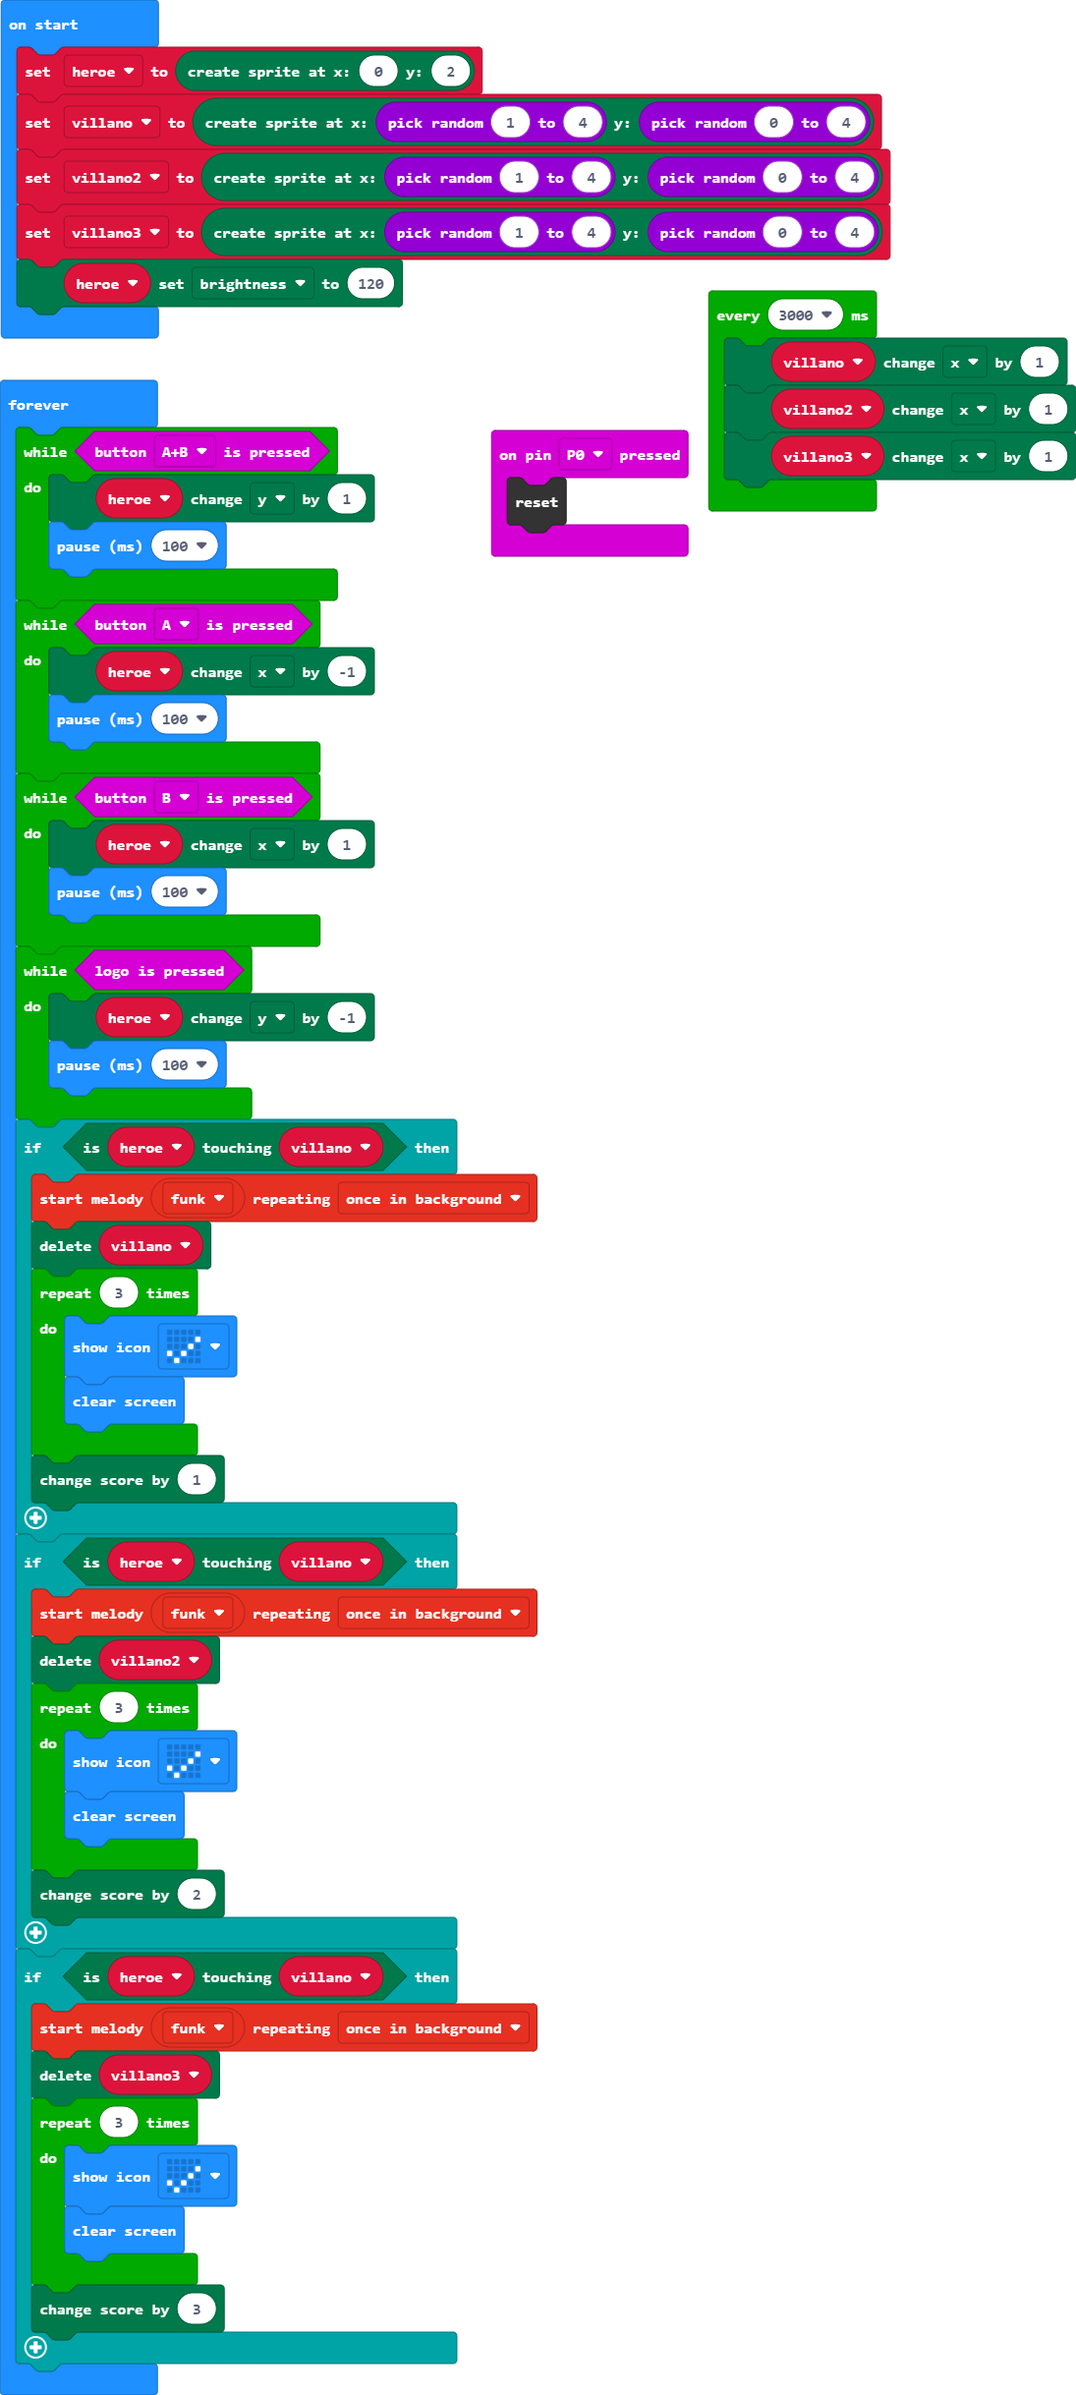
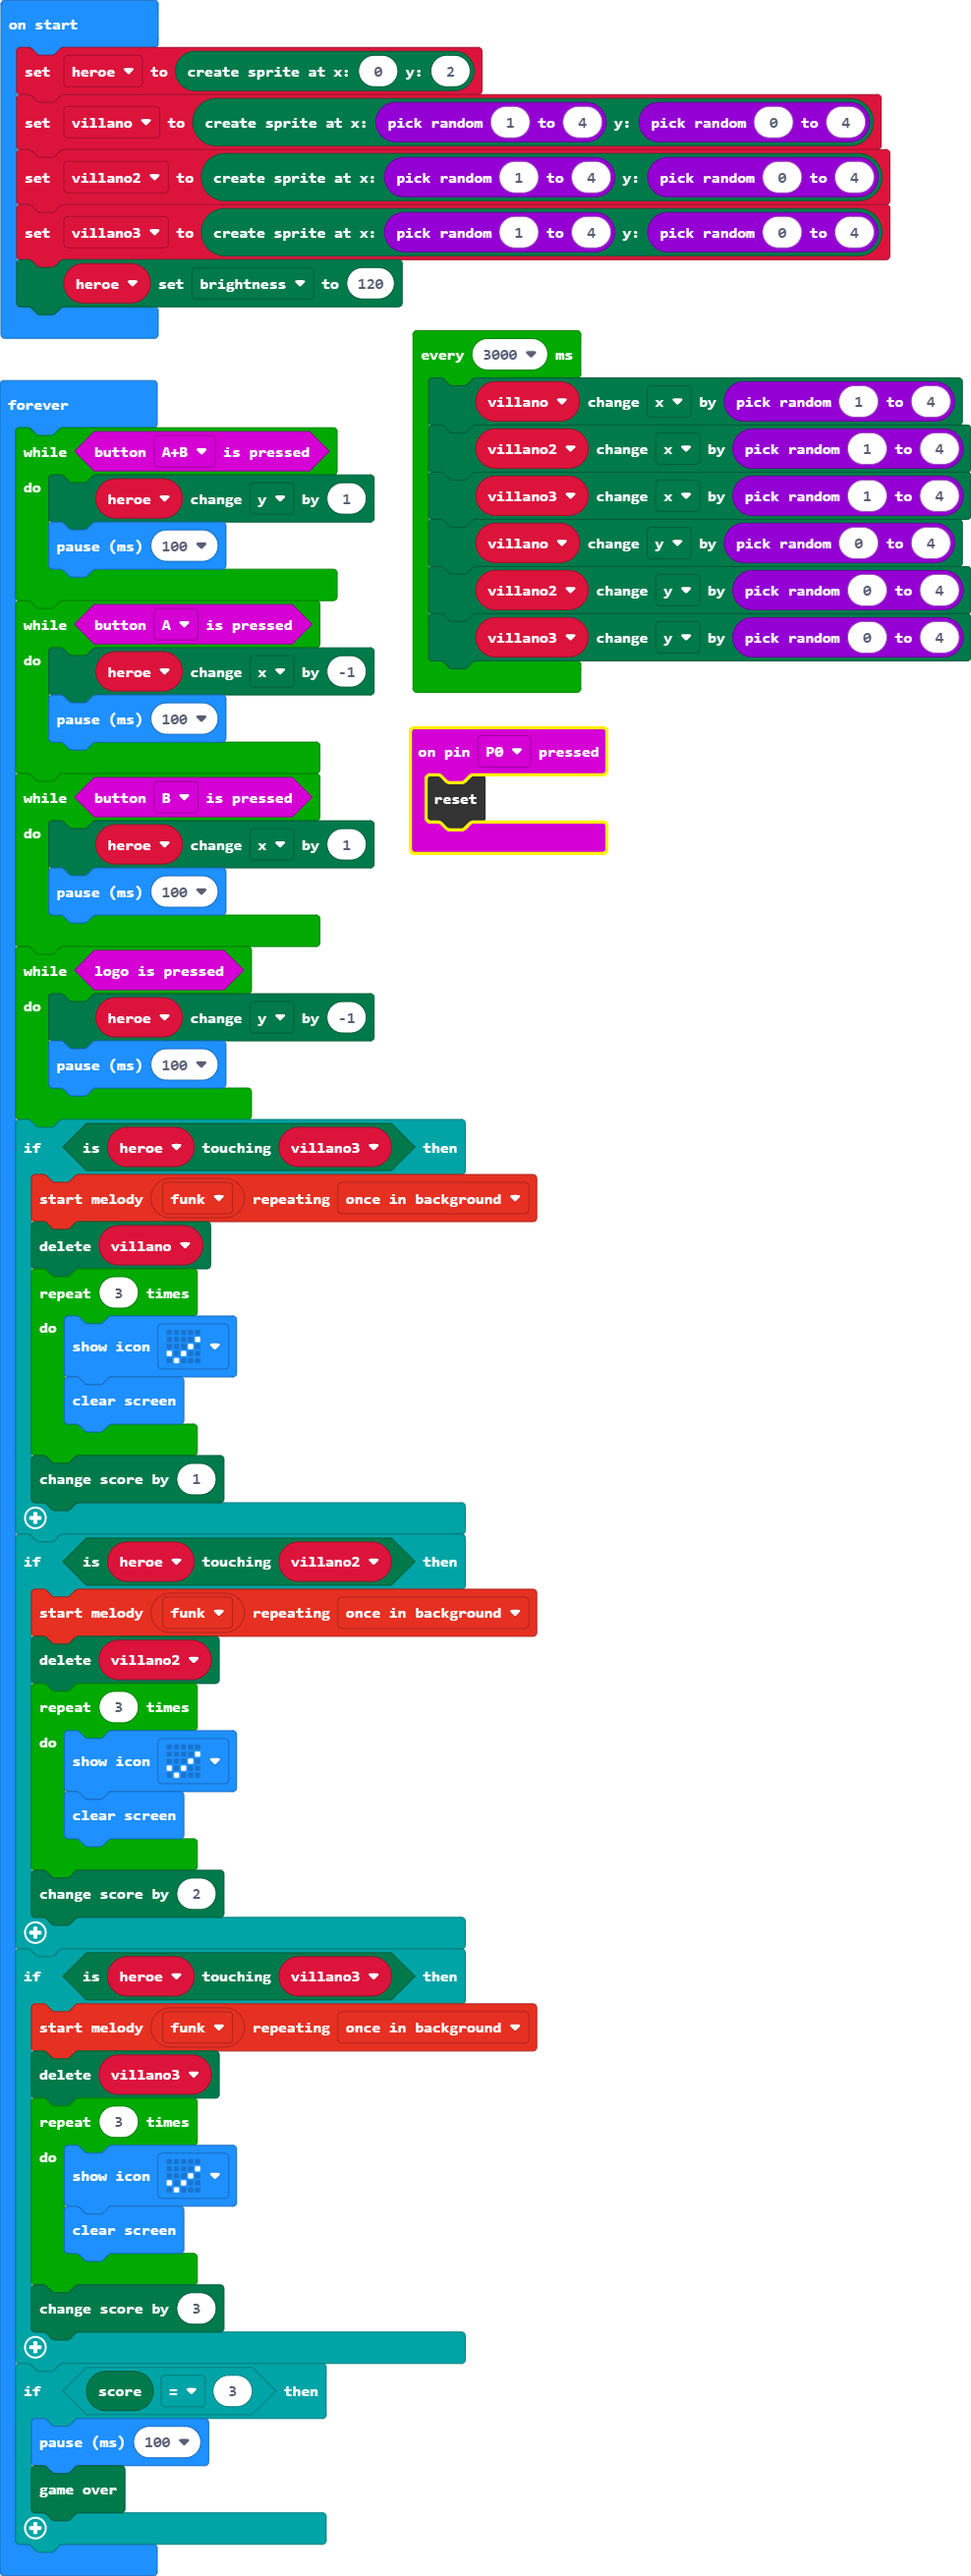
Update main.blocks, main.ts

diff --git a/main.ts b/main.ts
@@ -23,7 +23,7 @@ basic.forever(function () {
         heroe.change(LedSpriteProperty.Y, -1)
         basic.pause(100)
     }
-    if (heroe.isTouching(villano)) {
+    if (heroe.isTouching(villano3)) {
         music.startMelody(music.builtInMelody(Melodies.Funk), MelodyOptions.OnceInBackground)
         villano.delete()
         for (let index = 0; index < 3; index++) {
@@ -32,7 +32,7 @@ basic.forever(function () {
         }
         game.addScore(1)
     }
-    if (heroe.isTouching(villano)) {
+    if (heroe.isTouching(villano2)) {
         music.startMelody(music.builtInMelody(Melodies.Funk), MelodyOptions.OnceInBackground)
         villano2.delete()
         for (let index = 0; index < 3; index++) {
@@ -41,7 +41,7 @@ basic.forever(function () {
         }
         game.addScore(2)
     }
-    if (heroe.isTouching(villano)) {
+    if (heroe.isTouching(villano3)) {
         music.startMelody(music.builtInMelody(Melodies.Funk), MelodyOptions.OnceInBackground)
         villano3.delete()
         for (let index = 0; index < 3; index++) {
@@ -50,9 +50,16 @@ basic.forever(function () {
         }
         game.addScore(3)
     }
+    if (game.score() == 3) {
+        basic.pause(100)
+        game.gameOver()
+    }
 })
 loops.everyInterval(3000, function () {
-    villano.change(LedSpriteProperty.X, 1)
-    villano2.change(LedSpriteProperty.X, 1)
-    villano3.change(LedSpriteProperty.X, 1)
+    villano.change(LedSpriteProperty.X, randint(1, 4))
+    villano2.change(LedSpriteProperty.X, randint(1, 4))
+    villano3.change(LedSpriteProperty.X, randint(1, 4))
+    villano.change(LedSpriteProperty.Y, randint(0, 4))
+    villano2.change(LedSpriteProperty.Y, randint(0, 4))
+    villano3.change(LedSpriteProperty.Y, randint(0, 4))
 })
